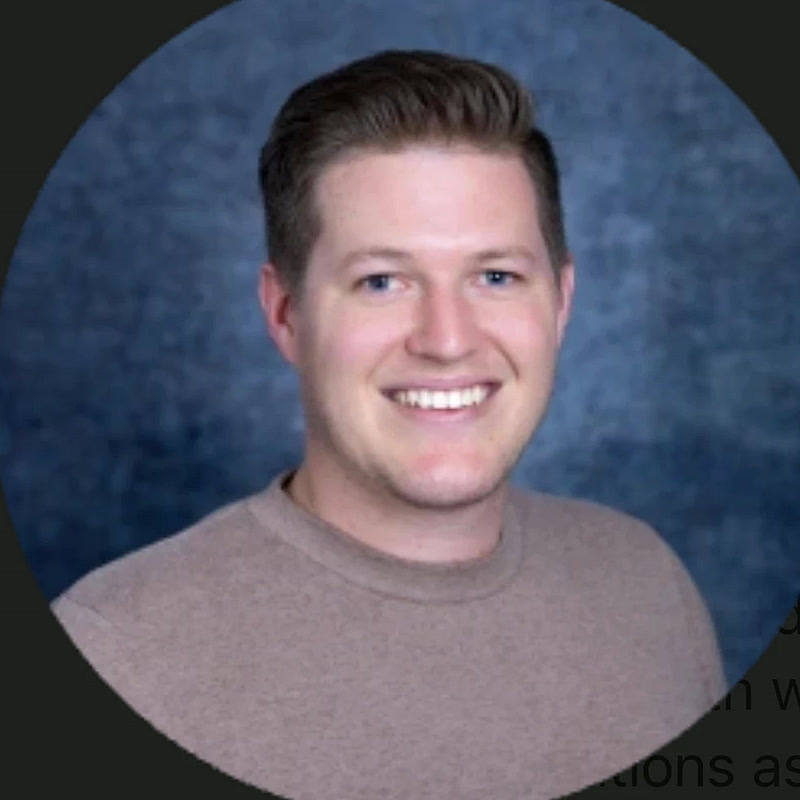
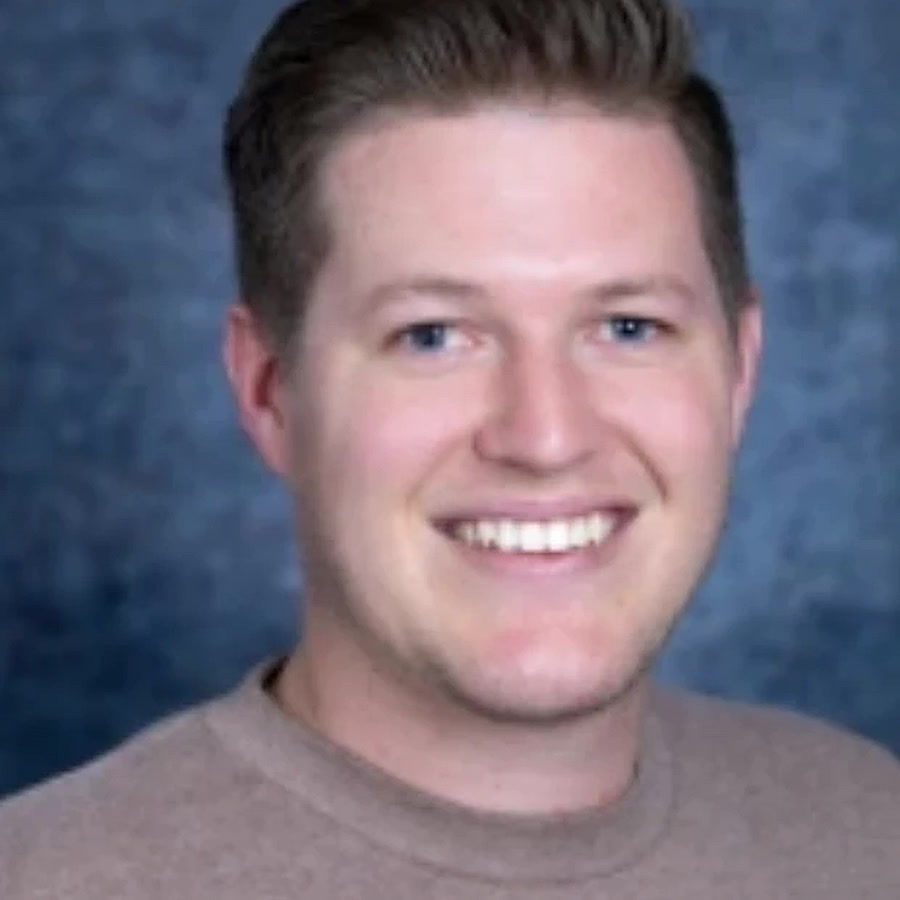
Replace the abstract graphic with a full-bleed, color-graded portrait
Removed the orbit-ring/dot-grid abstract composition. The portrait
now fills the whole graphic panel, re-cropped from the source headshot
(the previous circular crop exposed background bleed-through once
stretched to a full rectangle) and color-graded into a navy duotone
with a warm gold glow accent, matching the site's palette and blending
into the content panel's own gradient at the seam.

Claude-Session: https://claude.ai/code/session_01DzhhErXMvQZzoHFLiEsTgh

diff --git a/styles.css b/styles.css
@@ -248,28 +248,27 @@ img { max-width: 100%; height: auto; }
 .hero__scroll:hover { color: var(--accent); }
 
 .hero__panel--graphic {
-  position: relative; overflow: hidden; min-height: 320px;
-  background-color: #1a1c27;
-  background-image:
-    /* concentric rings, orbiting the main glow */
-    radial-gradient(circle at 68% 58%, transparent 29%, rgba(255, 255, 255, .14) 29.4%, rgba(255, 255, 255, .14) 29.8%, transparent 30.2%),
-    radial-gradient(circle at 68% 58%, transparent 43%, color-mix(in srgb, var(--accent) 45%, transparent) 43.4%, color-mix(in srgb, var(--accent) 45%, transparent) 43.9%, transparent 44.3%),
-    radial-gradient(circle at 68% 58%, transparent 58%, rgba(255, 255, 255, .09) 58.4%, rgba(255, 255, 255, .09) 58.8%, transparent 59.2%),
-    /* dotted grid texture */
-    radial-gradient(circle, rgba(255, 255, 255, .12) 1.5px, transparent 1.5px),
-    /* color blobs */
-    radial-gradient(ellipse 48% 42% at 68% 58%, color-mix(in srgb, var(--accent) 60%, transparent), transparent 65%),
-    radial-gradient(ellipse 45% 40% at 10% 88%, rgba(99, 140, 255, .32), transparent 62%),
-    radial-gradient(ellipse 38% 34% at 92% 8%, color-mix(in srgb, var(--accent) 30%, transparent), transparent 65%),
-    linear-gradient(160deg, #1a1c27, #2c2013);
-  background-size: auto, auto, auto, 28px 28px, auto, auto, auto, auto;
+  position: relative; overflow: hidden; min-height: 360px;
+  background: #1a1c27;
 }
 .hero__portrait {
-  position: absolute; top: 58%; left: 68%; transform: translate(-50%, -50%);
-  width: min(260px, 32vw); height: min(260px, 32vw);
-  border-radius: 50%; object-fit: cover;
-  border: 4px solid rgba(255, 255, 255, .9);
-  box-shadow: 0 25px 50px -12px rgba(0, 0, 0, .55);
+  position: absolute; inset: 0; width: 100%; height: 100%;
+  object-fit: cover; object-position: 50% 30%;
+  filter: grayscale(.6) contrast(1.15) brightness(.82) blur(.4px);
+}
+.hero__portrait-tint {
+  position: absolute; inset: 0;
+  background: #262a3d;
+  mix-blend-mode: color;
+}
+.hero__portrait-glow {
+  position: absolute; inset: 0;
+  background: radial-gradient(ellipse 75% 65% at 12% 102%, color-mix(in srgb, var(--accent) 85%, transparent), transparent 60%);
+  mix-blend-mode: soft-light;
+}
+.hero__portrait-fade {
+  position: absolute; inset: 0;
+  background: linear-gradient(to right, #1a1c27 0%, transparent 18%);
 }
 
 /* ---- Sections (general) ---- */

diff --git a/index.html b/index.html
@@ -86,7 +86,10 @@
         </a>
       </div>
       <div class="hero__panel hero__panel--graphic">
-        <img class="hero__portrait" src="images/justin-portrait.jpg" alt="Portrait of Justin Laing" width="800" height="800" loading="eager">
+        <img class="hero__portrait" src="images/justin-portrait.jpg" alt="Portrait of Justin Laing" width="900" height="900" loading="eager">
+        <div class="hero__portrait-tint" aria-hidden="true"></div>
+        <div class="hero__portrait-glow" aria-hidden="true"></div>
+        <div class="hero__portrait-fade" aria-hidden="true"></div>
       </div>
     </section>
 
